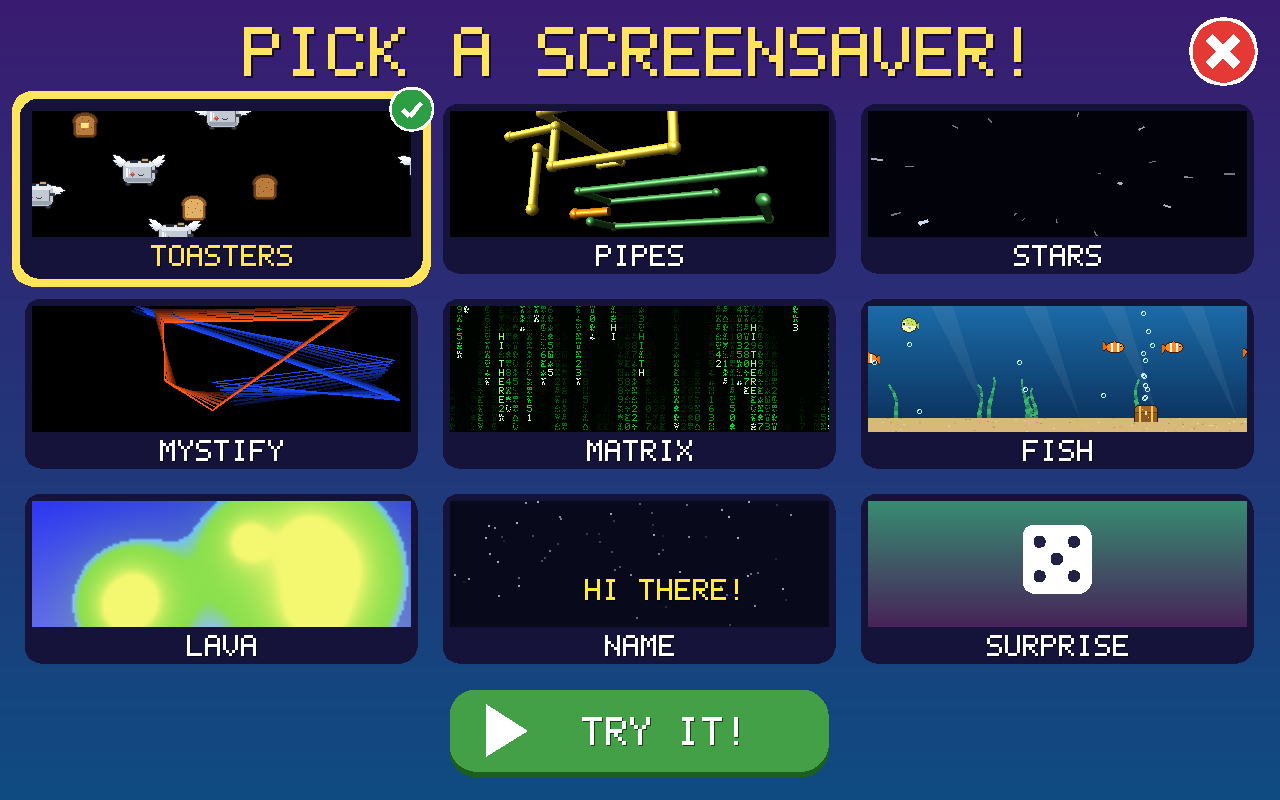
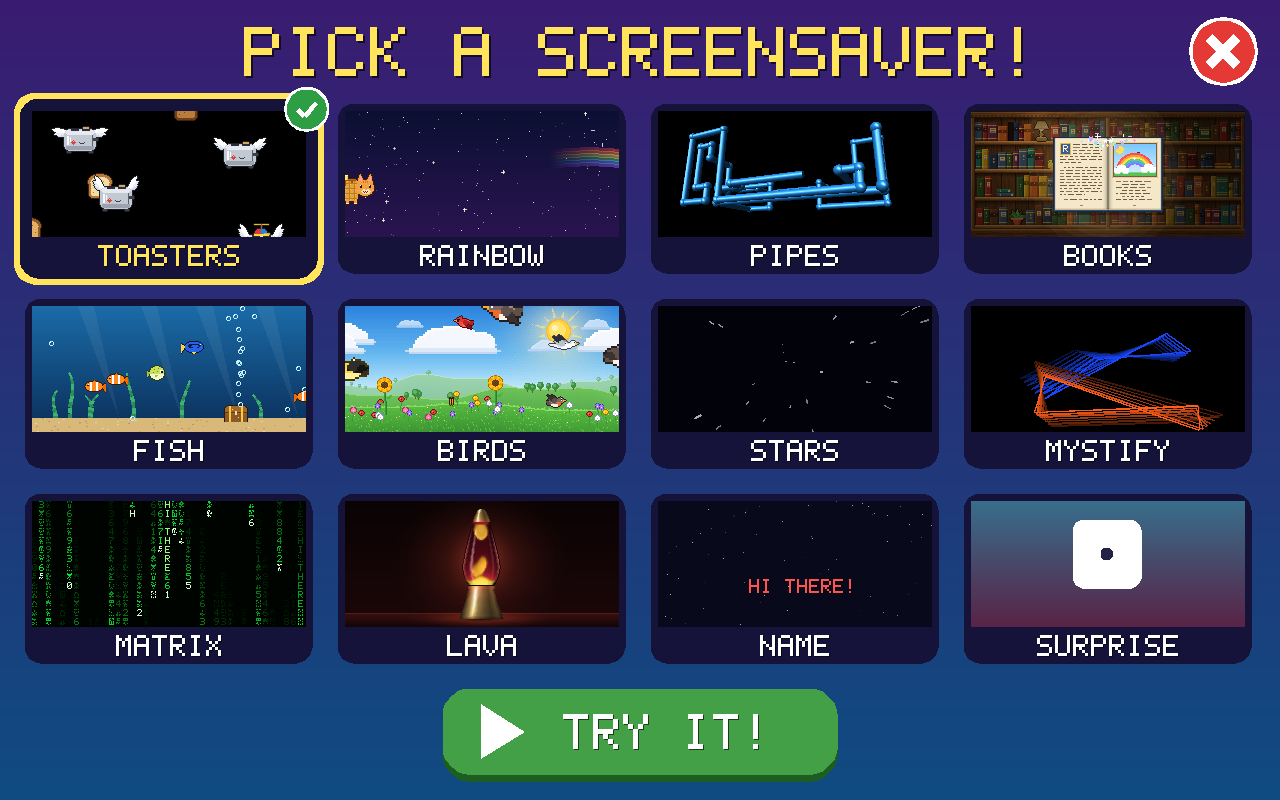
Release notes and docs for 1.1.0: RAINBOW, BOOKS, BIRDS, new LAVA
README lists all eleven savers with fresh screenshots and demo GIF.

diff --git a/src/engine.h b/src/engine.h
@@ -6,7 +6,7 @@
 #include <stdint.h>
 
 #define PI_F 3.14159265f
-#define VERSION "1.0.0"
+#define VERSION "1.1.0"
 
 /* Install locations, passed in by the Makefile. */
 #ifndef TOASTSAVER_BINDIR

diff --git a/README.md b/README.md
@@ -2,7 +2,7 @@
 
 [![CI](https://github.com/piyh/toastsaver/actions/workflows/ci.yml/badge.svg)](https://github.com/piyh/toastsaver/actions/workflows/ci.yml)
 
-Retro screensavers for Raspberry Pi OS and other Wayland desktops: flying toasters, 3D pipes, an aquarium and more, with a big friendly picker that a six-year-old can use.
+Retro screensavers for Raspberry Pi OS and other Wayland desktops: flying toasters, a rainbow waffle cat, 3D pipes, a cozy bookshelf, birds in a summer sky and more, with a big friendly picker that a six-year-old can use.
 
 ![toastsaver demo](docs/demo.gif)
 
@@ -12,12 +12,20 @@ curl -fsSL https://piyh.github.io/toastsaver/setup.sh | sh
 
 ## What's inside
 
-Eight screensavers, plus a SURPRISE tile that picks a random one each time. All of the artwork is original and drawn by the program itself.
+Eleven screensavers, plus a SURPRISE tile that picks a random one each time. All of the artwork is original and drawn by the program itself.
 
 <table>
   <tr>
     <td align="center"><img src="docs/toasters.png" width="400"><br><b>TOASTERS</b></td>
+    <td align="center"><img src="docs/rainbow.png" width="400"><br><b>RAINBOW</b></td>
+  </tr>
+  <tr>
     <td align="center"><img src="docs/pipes.png" width="400"><br><b>PIPES</b></td>
+    <td align="center"><img src="docs/books.png" width="400"><br><b>BOOKS</b></td>
+  </tr>
+  <tr>
+    <td align="center"><img src="docs/aquarium.png" width="400"><br><b>FISH</b></td>
+    <td align="center"><img src="docs/birds.png" width="400"><br><b>BIRDS</b></td>
   </tr>
   <tr>
     <td align="center"><img src="docs/starfield.png" width="400"><br><b>STARS</b></td>
@@ -25,21 +33,24 @@ Eight screensavers, plus a SURPRISE tile that picks a random one each time. All 
   </tr>
   <tr>
     <td align="center"><img src="docs/matrix.png" width="400"><br><b>MATRIX</b></td>
-    <td align="center"><img src="docs/aquarium.png" width="400"><br><b>FISH</b></td>
+    <td align="center"><img src="docs/lava.png" width="400"><br><b>LAVA</b></td>
   </tr>
   <tr>
-    <td align="center"><img src="docs/lava.png" width="400"><br><b>LAVA</b></td>
     <td align="center"><img src="docs/name.png" width="400"><br><b>NAME</b></td>
+    <td></td>
   </tr>
 </table>
 
 - **TOASTERS**: winged chrome toasters and slices of toast flying down and to the left.
+- **RAINBOW**: the Waffle Cat flies across the night sky on a wavy rainbow. Every so often it shimmers, goes *poof*, rainbow lines zoom across the screen, and it pops back out at the end of the rainbow. (Invented by a six-year-old.)
 - **PIPES**: shiny 3D pipes grow through a grid, then fade and start again.
+- **BOOKS**: a cozy lamplit bookshelf. Books slide out, float to the middle, open to a little animated picture, and fly back to their spot.
+- **FISH**: clownfish, a blue tang, a pufferfish, seaweed and a bubbling treasure chest.
+- **BIRDS**: a sunny summer sky with bluebirds, cardinals, finches and robins flying over a flower meadow. (Also requested by a six-year-old.)
 - **STARS**: a warp-speed starfield.
 - **MYSTIFY**: bouncing, color-changing shapes with echo trails.
 - **MATRIX**: falling green code. Sometimes a column spells your name.
-- **FISH**: clownfish, a blue tang, a pufferfish, seaweed and a bubbling treasure chest.
-- **LAVA**: a lava lamp, with a new color palette each time.
+- **LAVA**: a glowing lava lamp with wax that warms, rises, merges and sinks, in a new color each time.
 - **NAME**: your name bounces around like the old DVD logo, with confetti when it hits a corner.
 
 ### Easter eggs
@@ -147,7 +158,7 @@ Settings live in `~/.config/toastsaver.conf`. The picker and Screensaver Setting
 
 ```sh
 ENABLED=1               # 0 = turn the screensaver off
-SAVER=toasters          # toasters pipes starfield mystify matrix aquarium lava name random
+SAVER=toasters          # toasters rainbow pipes books aquarium birds starfield mystify matrix lava name random
 NAME='HELLO'            # letters, digits, space and ! ? - . *  (* draws a heart)
 IDLE_MINUTES=5          # minutes of no input before the screensaver appears
 SCREEN_OFF_MINUTES=30   # minutes before the display turns off (0 = never)
